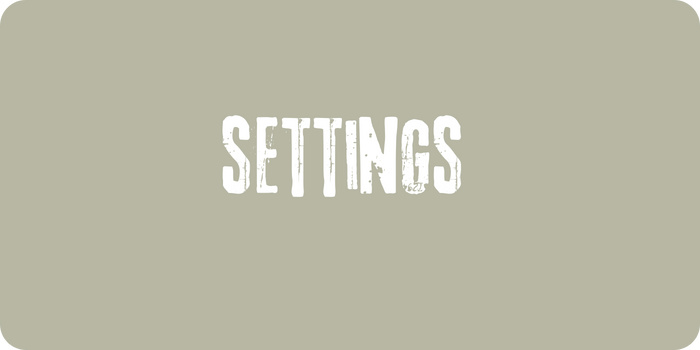
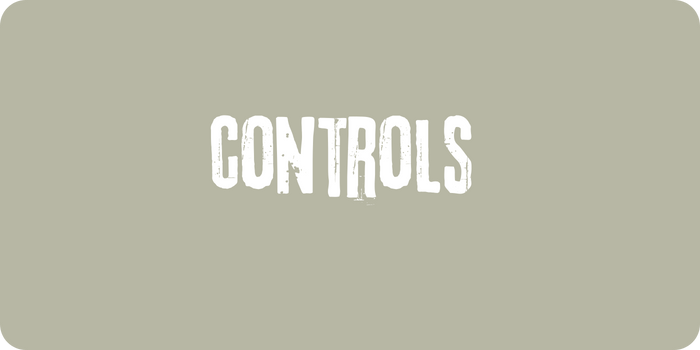
Rock bomb texture

Changed region(s): [[0.3, 0.3143, 0.69, 0.5714]]

diff --git a/src/spawner/RockSpawner.cpp b/src/spawner/RockSpawner.cpp
@@ -20,9 +20,10 @@ void RockSpawner::spawnRocks() {
 
 void RockSpawner::spawnRock(const size_t idxRock) const {
     const Vector linearMomentum = this->getRandLinearMomentum();
+    const floatType angularMomentum = this->getRandAngularMomentum();
     Vector position = this->getRockSpawnPosition(idxRock);
     const DynamicConvexPolygon poly = this->getRandDynamicPolygon(position);
-    const DynamicProperties dynamicProperties{position, 0, 0, linearMomentum, 1};
+    const DynamicProperties dynamicProperties{position, 0, 0, linearMomentum, angularMomentum};
     this->createRock(position, poly, dynamicProperties);
     spdlog::debug("Rock spawned at position (x: {0}, y: {1})", position.x, position.y);
 }
@@ -85,14 +86,18 @@ std::vector<Vector> RockSpawner::getOffsetsAdditionalRocks() const {
 
 Vector RockSpawner::getRandSpawnPos() const {
     const auto spawnXPos = this->world.getMaxX() + gameConstants.rockConstants.spawnOffsetX;
-    const auto randYOffset = randomGenerator->getRandomRealNumber(6, 8); // TODO magic numbers
-
-    // static_cast<floatType>(std::rand() / (1.0 * RAND_MAX)) * (4 - 3) + 3; // TODO these should be constants
+    const auto &rockSpawnConst = gameConstants.rockSpawnerConstants;
+    const auto randYOffset =
+        randomGenerator->getRandomRealNumber(rockSpawnConst.minRandYSpawnOffset, rockSpawnConst.maxRandYSpawnOffset);
     const auto spawnYPos = this->world.getTerrain().getMaxHeight(spawnXPos) + randYOffset;
     return Vector{spawnXPos, spawnYPos};
 }
 
-int RockSpawner::getRandPointNumber() const { return randomGenerator->getRandomNumber(50, 200); } // TODO magic numbers
+int RockSpawner::getRandPointNumber() const {
+    const auto &rockSpawnConst = gameConstants.rockSpawnerConstants;
+    return randomGenerator->getRandomNumber(rockSpawnConst.minNumPointsForGeneration,
+                                            rockSpawnConst.maxNumPointsForGeneration);
+}
 
 floatType RockSpawner::getRandDensity() const {
     const auto &rockConst = gameConstants.rockConstants;
@@ -143,3 +148,8 @@ RockType RockSpawner::determineRockTypePhase() const {
     return static_cast<RockType>(0);
 }
 void RockSpawner::reset() {}
+
+floatType RockSpawner::getRandAngularMomentum() const {
+    return randomGenerator->getRandomRealNumber(gameConstants.rockSpawnerConstants.minAngularMomentum,
+                                                gameConstants.rockSpawnerConstants.maxAngularMomentum);
+}

diff --git a/src/menu/MenuRenderer.cpp b/src/menu/MenuRenderer.cpp
@@ -40,7 +40,7 @@ void MenuRenderer::checkMouseClickStartScreen() {
 
     if (CheckCollisionPointRec(mousePoint, buttonBoundsSettings)) {
         if (IsMouseButtonPressed(MOUSE_LEFT_BUTTON)) {
-            this->setScreenState(SETTINGS_SCREEN);
+            this->setScreenState(CONTROLS_SCREEN);
         }
     }
 }
@@ -71,7 +71,7 @@ void MenuRenderer::checkMouseClickEndScreen() {
     }
 }
 
-void MenuRenderer::drawSettingsScreen() {
+void MenuRenderer::drawControlsScreen() {
     const Texture2D texture = resourceManager.getTexture("settingsScreen");
     const Rectangle sourceRec = {0.0f, 0.0f, static_cast<float>(GetScreenWidth()),
                                  static_cast<float>(GetScreenHeight())};
@@ -117,8 +117,8 @@ void MenuRenderer::draw() {
     case INSTRUCTIONS_SCREEN:
         drawInstructionsScreen();
         break;
-    case SETTINGS_SCREEN:
-        drawSettingsScreen();
+    case CONTROLS_SCREEN:
+        drawControlsScreen();
         break;
     case END_SCREEN:
         drawEndScreen();
@@ -132,7 +132,7 @@ void MenuRenderer::draw() {
 }
 void MenuRenderer::setScreenState(ScreenState newScreenState) { this->screenState = newScreenState; }
 
-ScreenState MenuRenderer::getScreenState() { return SETTINGS_SCREEN; }
+ScreenState MenuRenderer::getScreenState() { return CONTROLS_SCREEN; }
 
 bool MenuRenderer::isGameplayRunning() const { return this->gameplayRunning; }
 void MenuRenderer::setGameplayRunning(bool newGameplayRunning) { this->gameplayRunning = newGameplayRunning; }

diff --git a/src/menu/screens/ControlsScreen.cpp b/src/menu/screens/ControlsScreen.cpp
@@ -2,21 +2,21 @@
 // Created by Anietta Weckauff on 04.08.24.
 //
 
-#include "SettingsScreen.h"
+#include "ControlsScreen.h"
 
-SettingsScreen::SettingsScreen(ResourceManager &resourceManager) : Screen(resourceManager) { this->setUp(); }
+ControlsScreen::ControlsScreen(ResourceManager &resourceManager) : Screen(resourceManager) { this->setUp(); }
 
-void SettingsScreen::setUp() {
+void ControlsScreen::setUp() {
     this->setUpScreen();
     this->setUpButtons();
 }
 
-void SettingsScreen::setUpScreen() {
-    this->background = resourceManager.getTexture("settingsScreen");
+void ControlsScreen::setUpScreen() {
+    this->background = resourceManager.getTexture("controlsScreen");
     this->selectedButton = 0;
 }
 
-void SettingsScreen::setUpButtons() {
+void ControlsScreen::setUpButtons() {
     buttons = std::vector<std::shared_ptr<Button>>();
     Texture2D homeButtonTexture = resourceManager.getTexture("homeButton");
     Texture2D homeButtonToggledTexture = resourceManager.getTexture("homeButtonToggled");

diff --git a/src/utilities/YamlConversions.hpp b/src/utilities/YamlConversions.hpp
@@ -207,7 +207,12 @@ template <> struct convert<RockSpawnerConstants> {
         rockSpawnerConstants.spawningPhase = node["spawningPhase"].as<std::vector<floatType>>();
         rockSpawnerConstants.rockSpawnTimeInterval = node["rockSpawnTimeInterval"].as<std::vector<floatType>>();
         rockSpawnerConstants.rockTypePhase = node["rockTypePhase"].as<std::vector<floatType>>();
-
+        rockSpawnerConstants.minAngularMomentum = node["minAngularMomentum"].as<floatType>();
+        rockSpawnerConstants.maxAngularMomentum = node["maxAngularMomentum"].as<floatType>();
+        rockSpawnerConstants.minNumPointsForGeneration = node["minNumPointsForGeneration"].as<int>();
+        rockSpawnerConstants.maxNumPointsForGeneration = node["maxNumPointsForGeneration"].as<int>();
+        rockSpawnerConstants.minRandYSpawnOffset = node["minRandYSpawnOffset"].as<floatType>();
+        rockSpawnerConstants.maxRandYSpawnOffset = node["maxRandYSpawnOffset"].as<floatType>();
         return true;
     }
 };

diff --git a/src/menu/MenuEventProcessor.cpp b/src/menu/MenuEventProcessor.cpp
@@ -7,7 +7,7 @@
 MenuEventProcessor::MenuEventProcessor(MenuEngine &menuEngine) : menuEngine(menuEngine) {
     this->gameEventFunctionMappings = {
         //{{START_GAMEPLAY, NO_AXIS, 0, false}, [this](GameEvent gameEvent) { return this->startGameplay(gameEvent); }},
-        //{{SETTINGS, NO_AXIS, 0, false}, [this](GameEvent gameEvent) { return this->goToSettings(gameEvent); }},
+        //{{CONTROLS, NO_AXIS, 0, false}, [this](GameEvent gameEvent) { return this->goToSettings(gameEvent); }},
         //{{INSTRUCTIONS, NO_AXIS, 0, false}, [this](GameEvent gameEvent) { return this->goToInstructions(gameEvent);
         //}},
         //{{MENU, NO_AXIS, 0, false}, [this](GameEvent gameEvent) { return this->goToStartScreen(gameEvent); }},

diff --git a/src/menu/screens/StartScreen.cpp b/src/menu/screens/StartScreen.cpp
@@ -26,7 +26,7 @@ void StartScreen::setUpButtons() {
     Texture settingsButtonTexture = resourceManager.getTexture("settingsButton");
     Texture settingsButtonToggledTexture = resourceManager.getTexture("settingsButtonToggled");
     std::shared_ptr<Button> settingsButton =
-        std::make_shared<Button>(SETTINGS, SETTINGS_SCREEN, settingsButtonTexture, settingsButtonToggledTexture);
+        std::make_shared<Button>(CONTROLS, CONTROLS_SCREEN, settingsButtonTexture, settingsButtonToggledTexture);
 
     Texture2D instructionsButtonTexture = resourceManager.getTexture("instructionsButton");
     Texture2D instructionsButtonToggledTexture = resourceManager.getTexture("instructionsButtonToggled");

diff --git a/src/input/devices/Keyboard.cpp b/src/input/devices/Keyboard.cpp
@@ -20,7 +20,7 @@ Keyboard::Keyboard(const InputConstants &inputConstants) : InputDevice(-1, DEVIC
                       {{KEY_P, TRIGGER_PRESSED}, {TOGGLE_DEBUG, NO_AXIS, 0, false}},
                       {{KEY_BACKSPACE, TRIGGER_PRESSED}, {PAUSE, NO_AXIS, 0, false}},
                       {{KEY_ENTER, TRIGGER_PRESSED}, {SELECT_BUTTON, NO_AXIS, 0, false}},
-                      //{{KEY_S, TRIGGER_PRESSED}, {SETTINGS, NO_AXIS, 0, false}},
+                      //{{KEY_S, TRIGGER_PRESSED}, {CONTROLS, NO_AXIS, 0, false}},
                       //{{KEY_I, TRIGGER_PRESSED}, {INSTRUCTIONS, NO_AXIS, 0, false}},
                       //{{KEY_M, TRIGGER_PRESSED}, {MENU, NO_AXIS, 0, false}},
 

diff --git a/src/menu/MenuEngine.cpp b/src/menu/MenuEngine.cpp
@@ -7,7 +7,7 @@
 MenuEngine::MenuEngine(ResourceManager &resourceManager) : resourceManager(resourceManager) {
     std::cout << "constructor menu engine" << std::endl;
     screens[START_SCREEN] = std::make_shared<StartScreen>(resourceManager);
-    screens[SETTINGS_SCREEN] = std::make_shared<SettingsScreen>(resourceManager);
+    screens[CONTROLS_SCREEN] = std::make_shared<ControlsScreen>(resourceManager);
     screens[INSTRUCTIONS_SCREEN] = std::make_shared<InstructionsScreen>(resourceManager);
     screens[END_SCREEN] = std::make_shared<EndScreen>(resourceManager);
     screens[PAUSE_SCREEN] = std::make_shared<PauseScreen>(resourceManager);

diff --git a/src/menu/screens/ControlsScreen.h b/src/menu/screens/ControlsScreen.h
@@ -1,0 +1,22 @@
+//
+// Created by Anietta Weckauff on 04.08.24.
+//
+
+#ifndef SURVIVING_SARNTAL_CONTROLSSCREEN_H
+#define SURVIVING_SARNTAL_CONTROLSSCREEN_H
+
+#include "../../output/ResourceManager.h"
+#include "Screen.h"
+
+class ControlsScreen : public Screen {
+
+  public:
+    explicit ControlsScreen(ResourceManager &resourceManager);
+
+  private:
+    void setUpScreen() override;
+    void setUpButtons() override;
+    void setUp();
+};
+
+#endif // SURVIVING_SARNTAL_CONTROLSSCREEN_H

diff --git a/src/menu/MenuEngine.h b/src/menu/MenuEngine.h
@@ -5,11 +5,11 @@
 #ifndef SURVIVING_SARNTAL_MENUENGINE_H
 #define SURVIVING_SARNTAL_MENUENGINE_H
 
+#include "screens/ControlsScreen.h"
 #include "screens/EndScreen.h"
 #include "screens/InstructionsScreen.h"
 #include "screens/PauseScreen.h"
 #include "screens/Screen.h"
-#include "screens/SettingsScreen.h"
 #include "screens/StartScreen.h"
 
 class MenuEngine {

diff --git a/src/game/GameProperties.hpp b/src/game/GameProperties.hpp
@@ -189,6 +189,12 @@ struct RockSpawnerConstants {
      *
      */
     std::vector<floatType> rockTypePhase;
+    floatType minAngularMomentum;
+    floatType maxAngularMomentum;
+    int minNumPointsForGeneration;
+    int maxNumPointsForGeneration;
+    floatType minRandYSpawnOffset;
+    floatType maxRandYSpawnOffset;
 };
 
 struct GameConstants {

diff --git a/src/menu/MenuEnums.h b/src/menu/MenuEnums.h
@@ -7,7 +7,7 @@
 
 typedef enum ScreenState {
     START_SCREEN,
-    SETTINGS_SCREEN,
+    CONTROLS_SCREEN,
     INSTRUCTIONS_SCREEN,
     END_SCREEN,
     PAUSE_SCREEN,
@@ -17,7 +17,7 @@ typedef enum ScreenState {
 
 typedef enum ButtonType {
     START_GAME,
-    SETTINGS,
+    CONTROLS,
     INSTRUCTIONS,
     CONTINUE_GAME,
     HOME,
